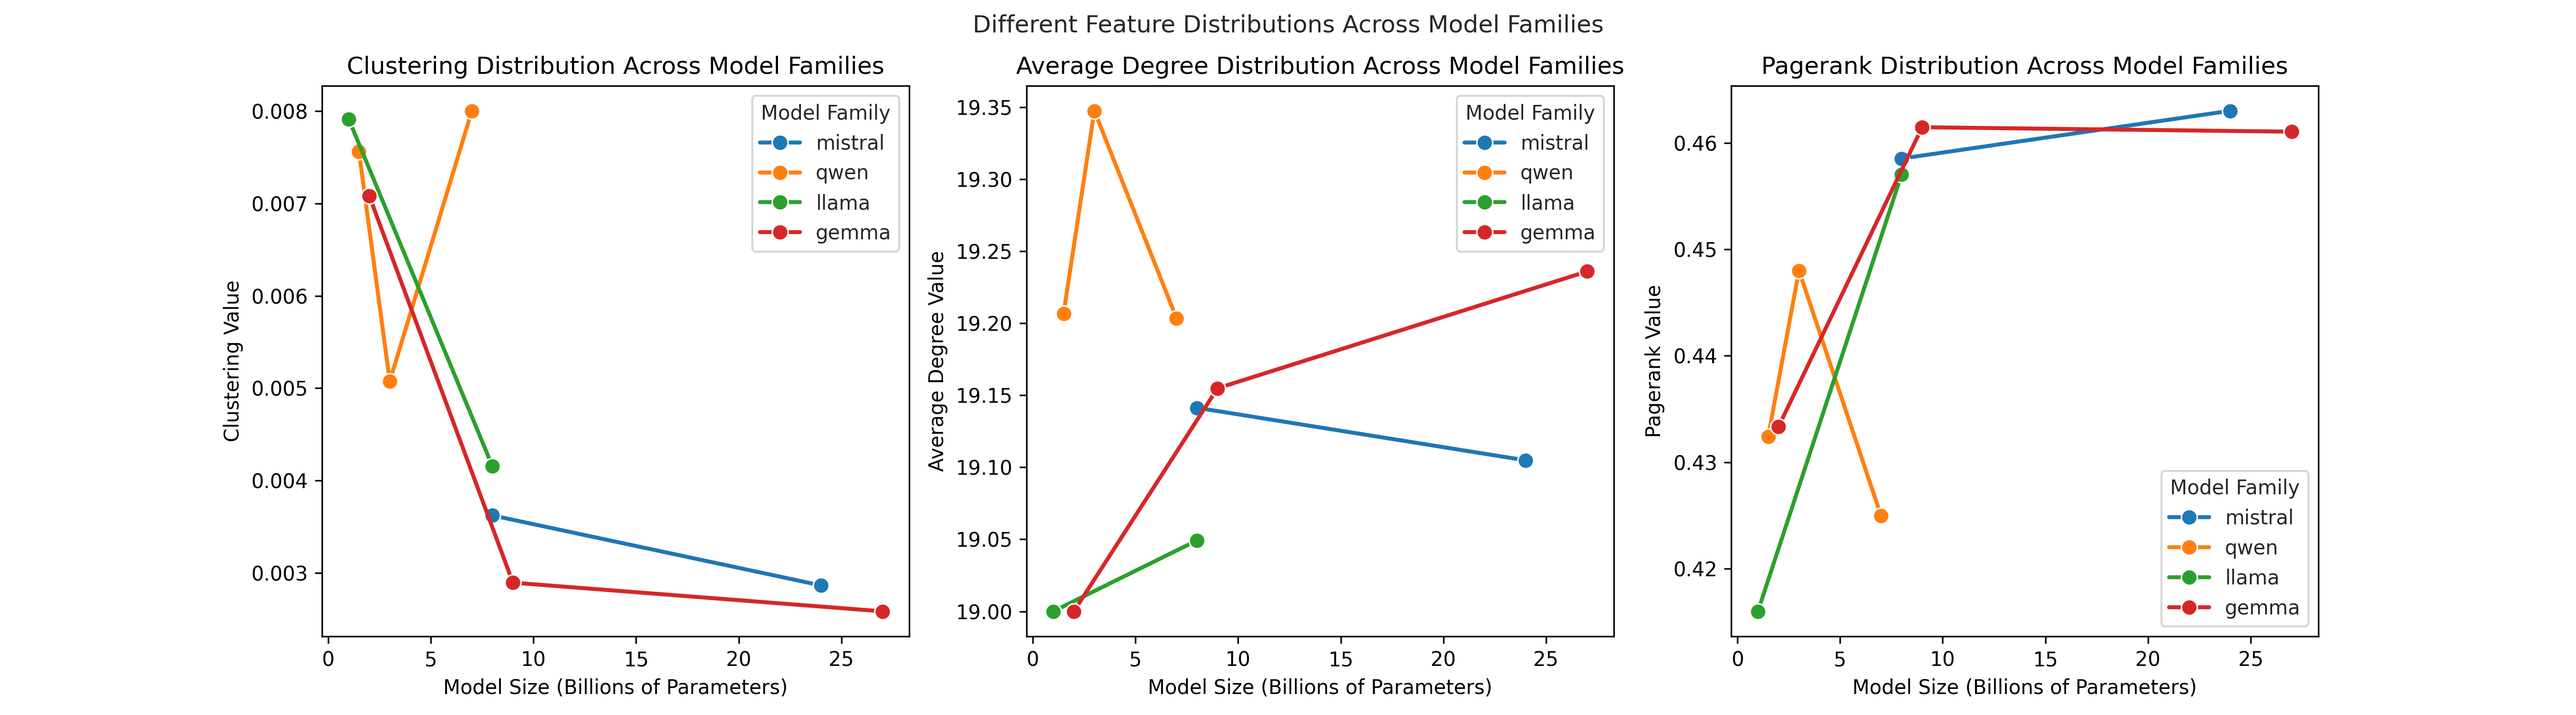
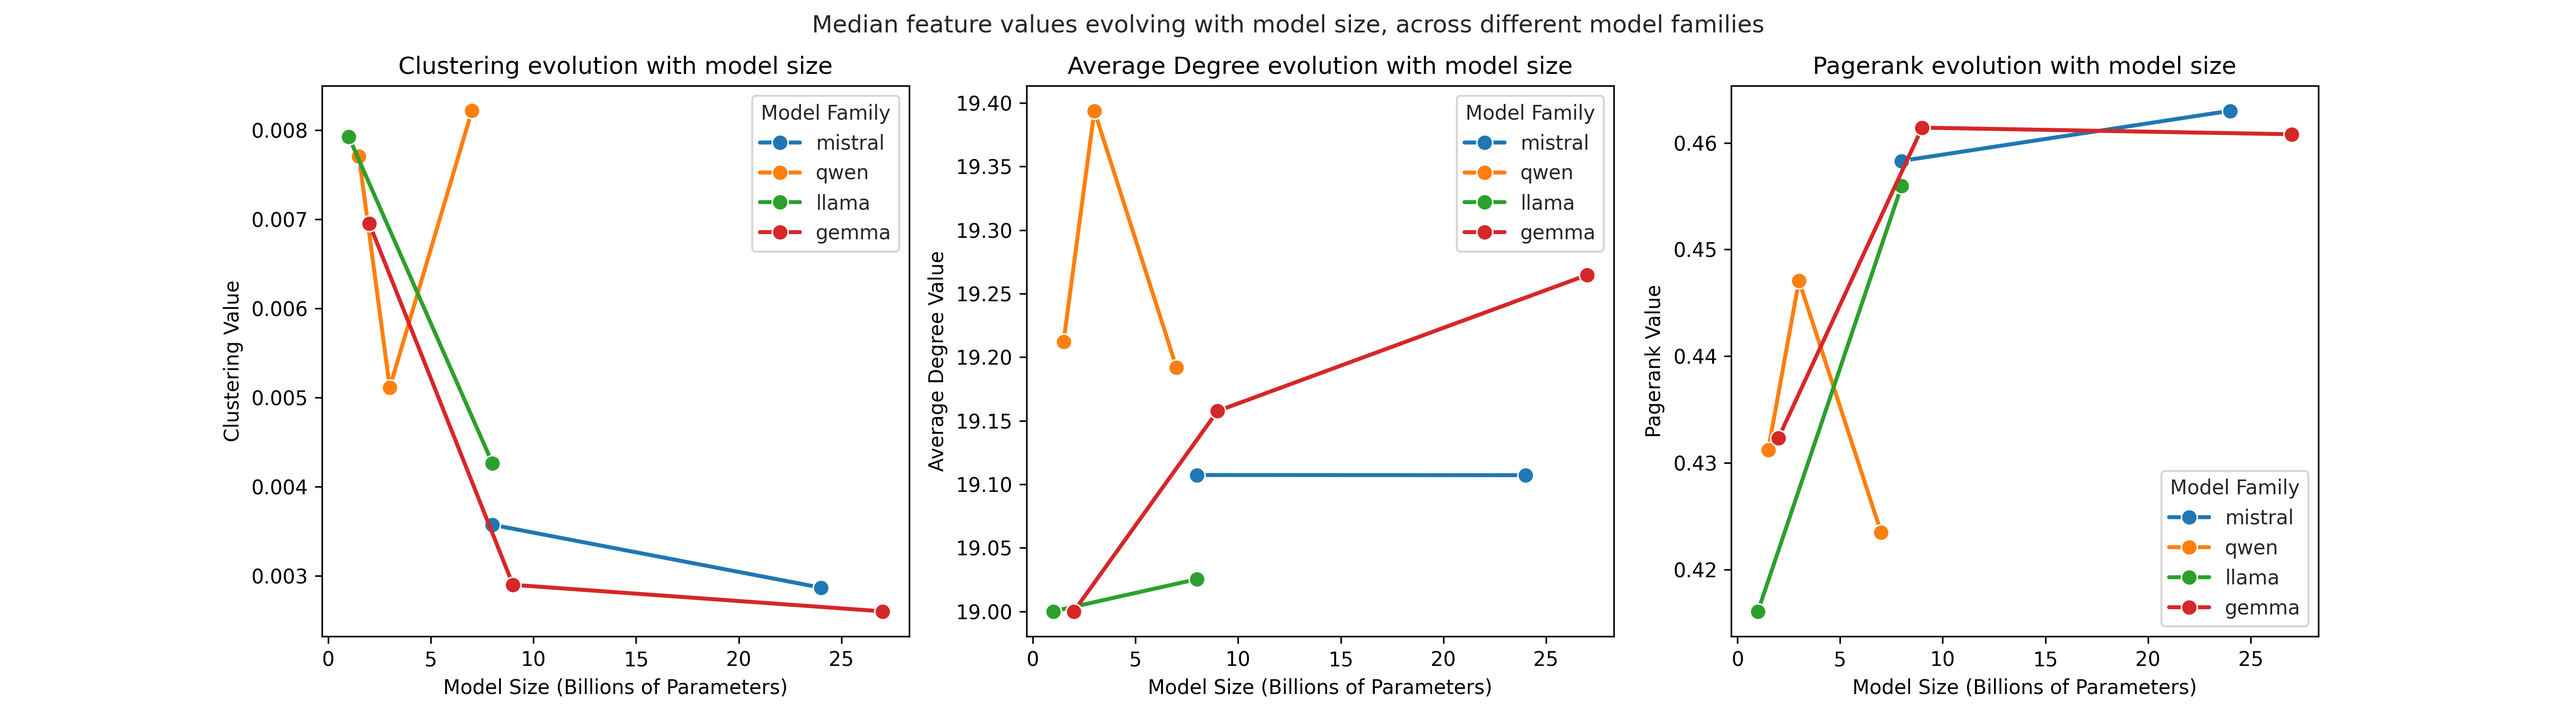
mean to median + more informative titles

diff --git a/src/feature_distribution_lineplot.py b/src/feature_distribution_lineplot.py
@@ -56,7 +56,7 @@ for i, feature_name in enumerate(feature_names):
                 # Handle if feature_value is a list by taking the average
                 if isinstance(feature_value, list):
                     if feature_value:  # Check if list is not empty
-                        feature_value = np.mean(feature_value)
+                        feature_value = np.median(feature_value)
                     else:
                         continue  # Skip if empty list
                 
@@ -86,7 +86,7 @@ for i, feature_name in enumerate(feature_names):
         # Add labels and title
         axs[i].set_xlabel('Model Size (Billions of Parameters)')
         axs[i].set_ylabel(f'{feature_name.replace("_", " ").title()} Value')
-        axs[i].set_title(f'{feature_name.replace("_", " ").title()} Distribution Across Model Families')
+        axs[i].set_title(f'{feature_name.replace("_", " ").title()} evolution with model size')
         
         # Adjust legend and layout
         axs[i].legend(title='Model Family')
@@ -95,6 +95,6 @@ for i, feature_name in enumerate(feature_names):
 
 print("All lineplots generated successfully.")
 
-plt.suptitle('Different Feature Distributions Across Model Families')
+plt.suptitle('Median feature values evolving with model size, across different model families')
 out_path = os.path.join(out_dir, f'feature_distribution_lineplot.png')
 plt.savefig(out_path, dpi=300)
